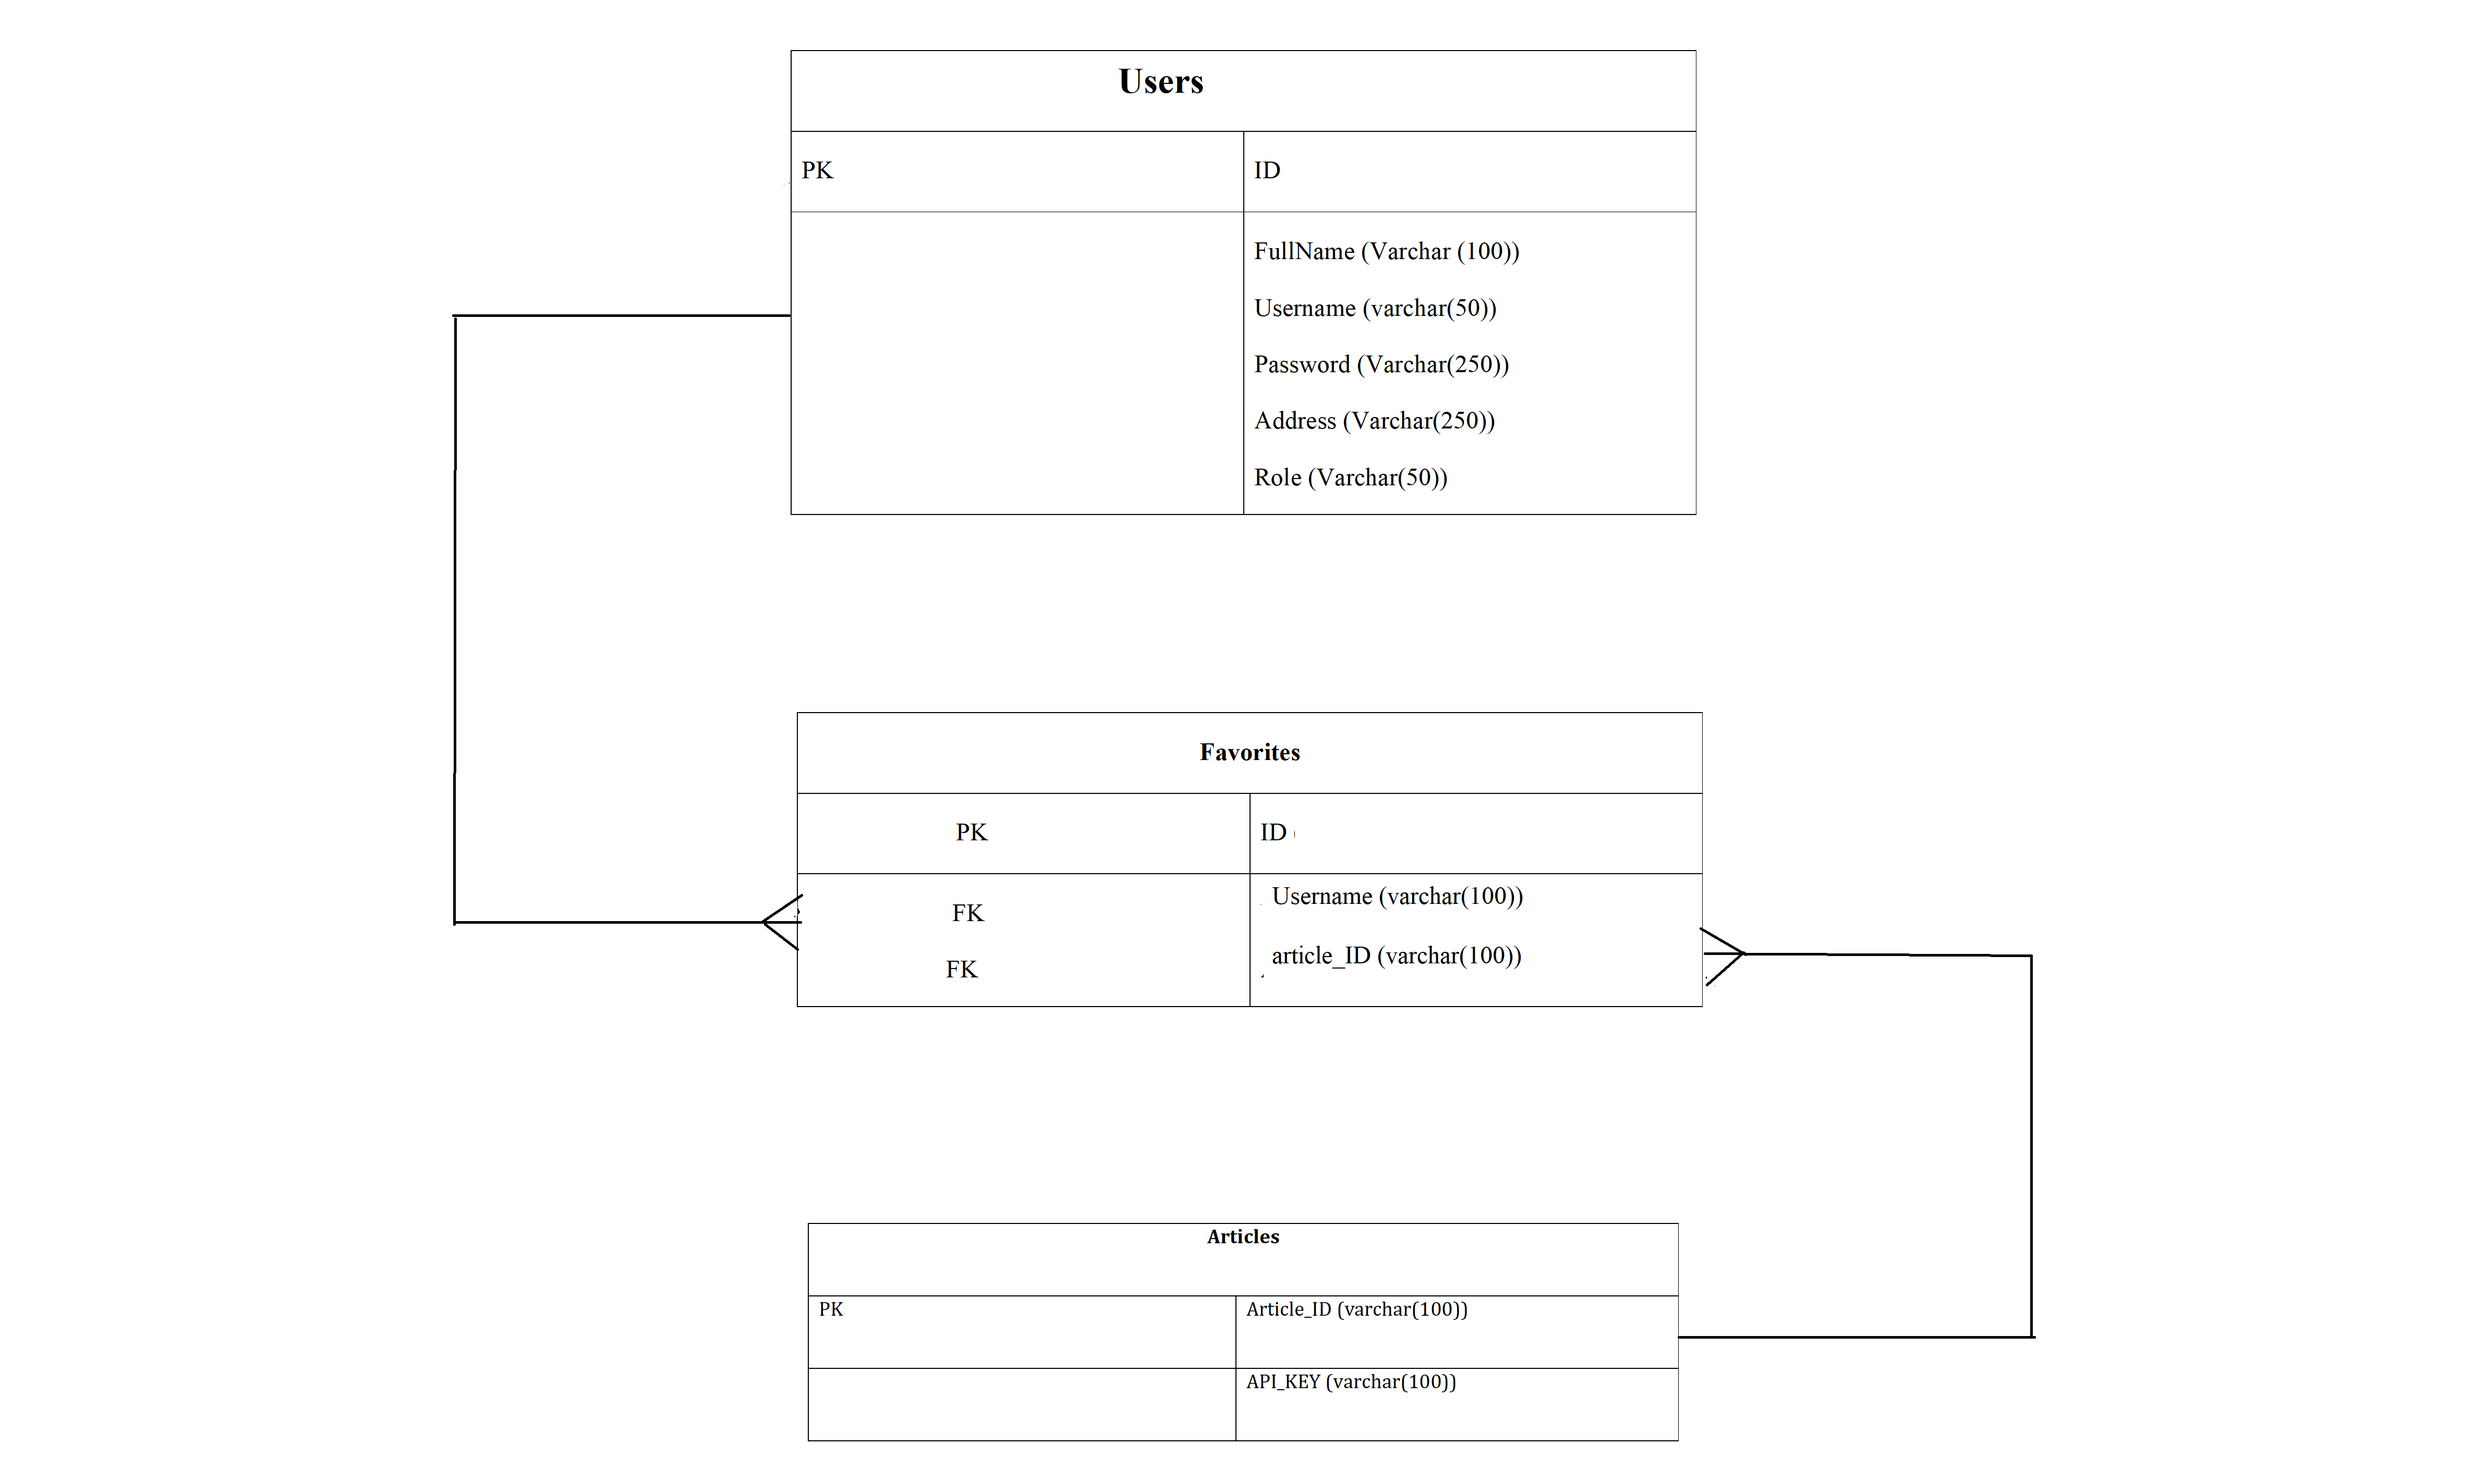
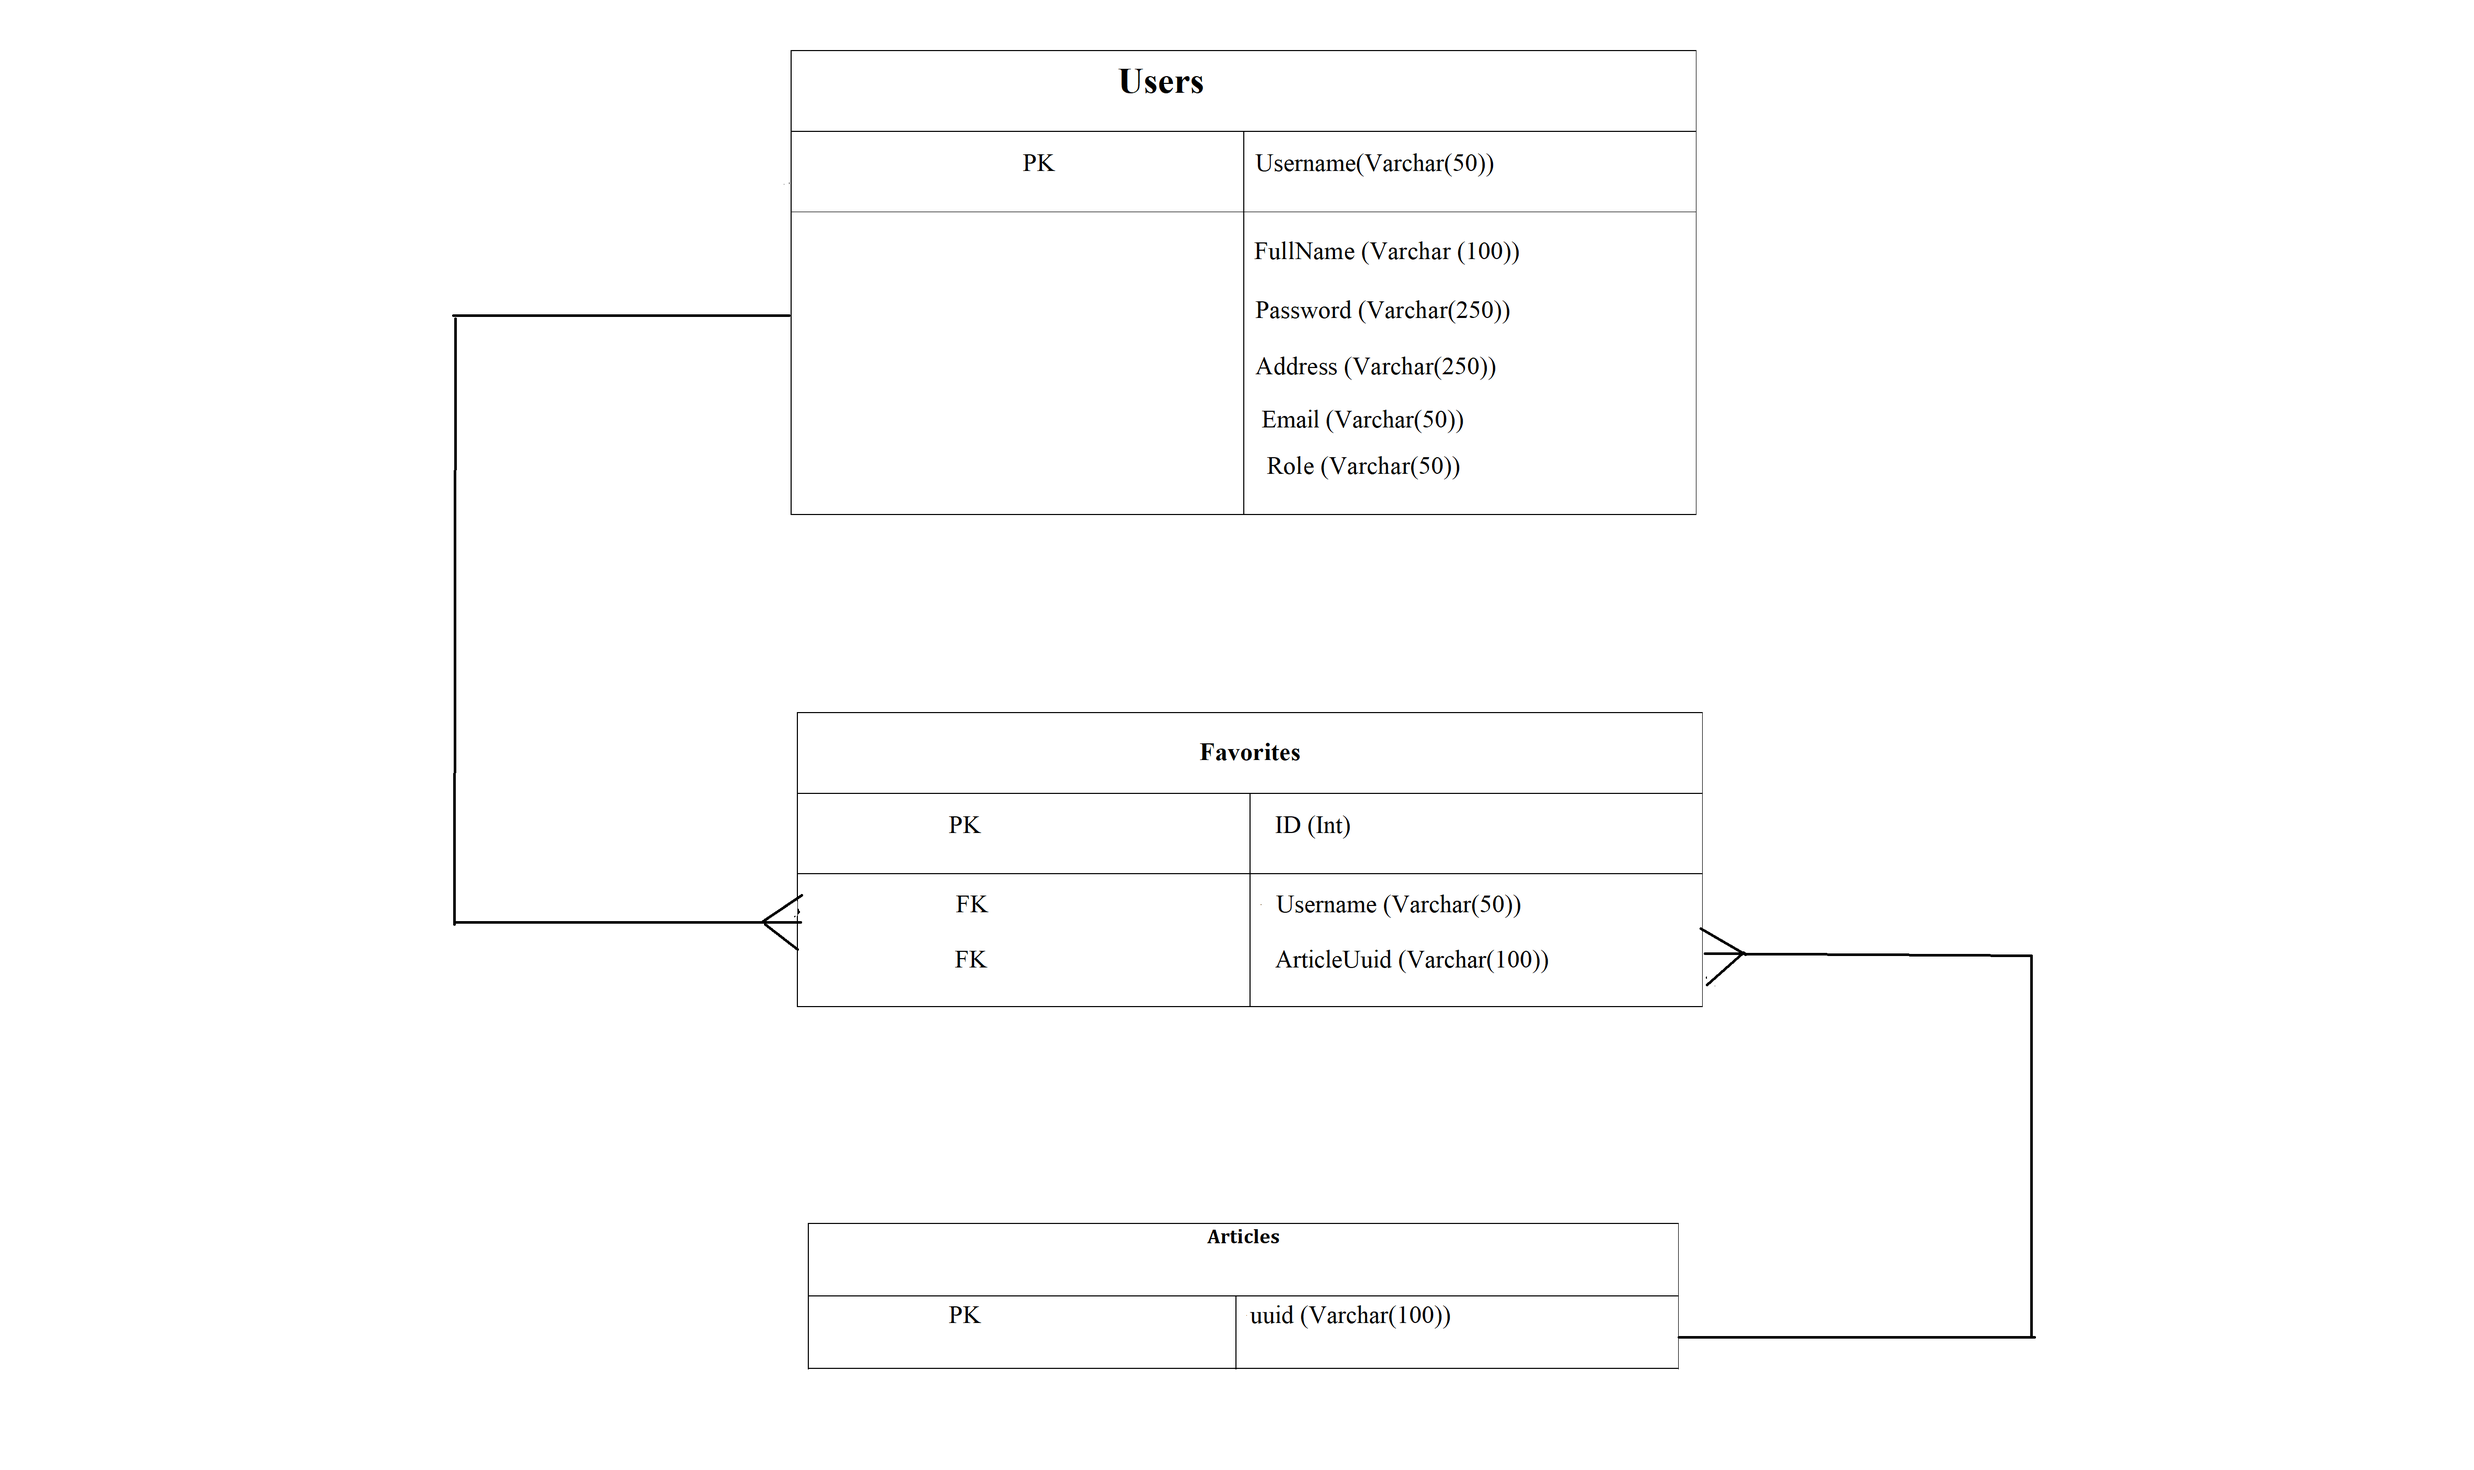
Remove api_secret file in the repo

diff --git a/templates/base.html b/templates/base.html
@@ -17,10 +17,33 @@
           
           <nav class="navbar navbar-light bg-primary justify-content-between ">
             <div class="container">
-              <a href="/" class="navbar-brand text-light">Home Page</a>
+              
               <ul class="nav navbar-nav flex-row float-right">
                 {% if session['username'] %}
+                <li class="nav-item">
+                  <a href="/users/{{session['username']}}" class="navbar-brand text-light">Top Stories</a>
+                </li>
+                <!--<li class="nav-item">
+                  <a class="nav-link pr-3 text-light" href="/search">search news</a>
+                  
+                </li>-->
+                <li class="nav-item dropdown">
+                  <a class="nav-link dropdown-toggle text-light" href="#" id="navbarDropdownMenuLink" data-toggle="dropdown" aria-haspopup="true" aria-expanded="false">
+                    search news
+                  </a>
+                  <div class="dropdown-menu" aria-labelledby="navbarDropdownMenuLink">
+                    <a class="dropdown-item" href="/searchAll/{{session['username']}}">All News</a>
+                    <a class="dropdown-item" href="/searchNews/{{session['username']}}">Search</a>
+    
+                  </div>
+                </li>
                 
+                
+                <!--
+                <li class="nav-item">
+                  <a class="nav-link pr-3 text-light" href="/users/{{session['username']}}/delete">delete account</a>
+                  
+                </li>-->
                 <li><a class="nav-link pr-3 text-light" href="/logout">Logout</a></li>
                 {% else %}
                 <li class="nav-item">
@@ -45,7 +68,7 @@
           <script src="https://ajax.googleapis.com/ajax/libs/jquery/3.1.0/jquery.min.js"></script>
 
           <script src="https://maxcdn.bootstrapcdn.com/bootstrap/3.3.6/js/bootstrap.min.js"></script>
-          <script src="{{ url_for('static', filename='form.js') }}"></script>
+          <!--<script src="{{ url_for('static', filename='form.js') }}"></script>-->
           <script src="//maxcdn.bootstrapcdn.com/bootstrap/3.3.0/js/bootstrap.min.js"></script>
           <script src="//code.jquery.com/jquery-1.11.1.min.js"></script>
           <!--<script src="static/stlyesheets/app.js"></script>-->

diff --git a/templates/search_form.html b/templates/search_form.html
@@ -1,0 +1,28 @@
+{% extends 'base.html'  %}
+
+{% block content %}
+<div class="container">
+<h1 class="display-1">Sign Up</h1>
+<p class="lead">Search for News!</p>
+
+<form method="POST">
+
+  {{ form.hidden_tag() }}
+
+  {% for field in form
+    if field.widget.input_type != 'hidden' %}
+  <p>
+    {{ field.label }}
+    {{ field(class_="form-control") }}
+
+    {% for error in field.errors %}
+    <span class="form-text text-danger">{{ error }}</span>
+    {% endfor %}
+  </p>
+  {% endfor %}
+
+  <button class="btn btn-success" type="submit">Register</button>
+
+</form>
+</div>
+{% endblock %}

diff --git a/app.py b/app.py
@@ -1,9 +1,9 @@
 from flask import Flask, render_template, redirect, session, flash
 from flask_debugtoolbar import DebugToolbarExtension
 from models import connect_db, db, User,UserFavorites
-from forms import RegisterForm, LoginForm 
+from forms import RegisterForm, LoginForm, SearchForm 
 from sqlalchemy.exc import IntegrityError
-from api_secrets import API_SECRET_KEY, APPLENEWS_KEY, TESLANEWS_KEY, TOPBUSINESSNEWS_KEY, TECHCRUSHNEWS_KEY, ALLARTICLESNEWS_KEY
+from api_secrets import API_SECRET_KEY
 from flask import g
 import requests
  
@@ -14,7 +14,8 @@ app.config['SQLALCHEMY_TRACK_MODIFICATIONS'] = False
 app.config['SQLALCHEMY_ECHO'] = True
 app.config['SECRET_KEY'] ='abc123'
 app.config['DEBUG_TB_INTERCEPT_REDIRECTS'] = False
-API_BASE_URL ='https://newsapi.org/v2'
+API_BASE_URL ='https://api.thenewsapi.com/v1/news'
+
 
 connect_db(app)
 
@@ -67,24 +68,51 @@ def login_user():
 
 
 @app.route('/users/<username>')
-def show_user(username):
-    """show user"""
+def log_user(username):
+    """user go to homepage"""
     if 'username' not in session:
         flash("Please login first!", "danger")
         return redirect('/login')
     user = User.query.get_or_404(username)
     if user.username == session['username']:
         user = User.query.get(username)
-        news = requests.get(f'{API_BASE_URL}/everything',
-            params={'domains':'wsj.com','apiKey':ALLARTICLESNEWS_KEY})
+        news = requests.get(f'{API_BASE_URL}/top',
+            params={'api_token':API_SECRET_KEY})
  
         all_news = news.json()
 
-        return render_template('news.html',user= user,news=all_news)
+        return render_template('news.html',user= user,news=all_news )
     return redirect('/')
 
+@app.route('/searchAll/<username>')
+def show_all_news(username):
+    """show all news"""
+    news = requests.get(f'{API_BASE_URL}/all',
+        params={'api_token':API_SECRET_KEY,'limit':50})
+    all_news = news.json()
+    return render_template('news.html',user= username,news=all_news )
 
- 
+@app.route('/searchNews/<username>', methods=['GET', 'POST'])
+def search_form(username):
+    """search for news"""
+    form = SearchForm()
+    if form.validate_on_submit():
+        categories, search, lang = (form.categories.data, form.search.data, form.language.data)
+        if lang:
+            news = requests.get(f'{API_BASE_URL}/all',
+                params={'api_token':API_SECRET_KEY, 'categories':categories, 'search':search, 'language':lang, 'limit':50})
+        else: 
+            news = requests.get(f'{API_BASE_URL}/all',
+                params={'api_token':API_SECRET_KEY, 'categories':categories, 'search':search, 'limit':50})   
+        all_news = news.json()
+        data = [article for article in  all_news['data']]  
+        for i in data:
+            favorites_news = UserFavorites(article_id =i['uuid'], username=username)
+            db.session.add(favorites_news)      
+        db.session.commit()
+
+        return render_template('search.html',user=username, news=all_news)  
+    return render_template('search_form.html',form=form)    
 
 @app.route('/logout')
 def logout_user():

diff --git a/models.py b/models.py
@@ -18,17 +18,17 @@ class User(db.Model):
 
     __tablename__ = 'users'
 
-    username = db.Column(db.String(20), primary_key=True)
+    username = db.Column(db.String(50), primary_key=True)
 
     password = db.Column(db.Text, nullable=False)
 
-    email = db.Column(db.String(50),nullable=False, unique=True)
+    email = db.Column(db.String(100),nullable=False, unique=True)
     
-    full_name = db.Column(db.String(50),nullable=False)
+    full_name = db.Column(db.String(100),nullable=False)
 
-    address = db.Column(db.String(50),nullable=False)
+    address = db.Column(db.String(250),nullable=False)
 
-    role = db.Column(db.String(30),nullable=False)
+    role = db.Column(db.String(50),nullable=False)
 
 
     @classmethod
@@ -60,9 +60,9 @@ class UserFavorites(db.Model):
 
     id = db.Column(db.Integer, primary_key=True, autoincrement=True)
 
-    article_id = db.Column(db.String(20), nullable=False)
+    article_id = db.Column(db.String(100), nullable=False)
 
-    username = db.Column(db.String(20), db.ForeignKey('users.username'))
+    username = db.Column(db.String(50), db.ForeignKey('users.username'))
 
     user = db.relationship('User', backref="users_favorites")
 

diff --git a/forms.py b/forms.py
@@ -1,6 +1,6 @@
 from flask_wtf import FlaskForm
 from wtforms import StringField, PasswordField,EmailField
-from wtforms.validators import InputRequired
+from wtforms.validators import InputRequired, Optional
 
 
 class RegisterForm(FlaskForm):
@@ -17,3 +17,11 @@ class LoginForm(FlaskForm):
 
     username = StringField("Username", validators=[InputRequired()])
     password = PasswordField("Password", validators=[InputRequired()])
+
+  
+class SearchForm(FlaskForm):
+    """Form for search of news."""
+
+    categories = StringField("Categories", validators=[Optional()])
+    search = StringField("Search", validators=[Optional()])
+    language = StringField("Language", validators=[Optional()])

diff --git a/proposal.md b/proposal.md
@@ -15,7 +15,7 @@ This project has two phases: firstly I will analyze the database from the given 
 The project will use the following languages:
 -	For the database I will use Postgresql with sqlAlchemy
 -	For programming I will use Python, JQuery, Html, CSS, JavaScript, JSON
--	I will use the API available on the link  https://newsapi.org/ 
+-	I will use the API available on the link https://www.thenewsapi.com/ 
 IV.	Database Schema
 The database of this project called “news_db” will have the below tables:
 -	Users
